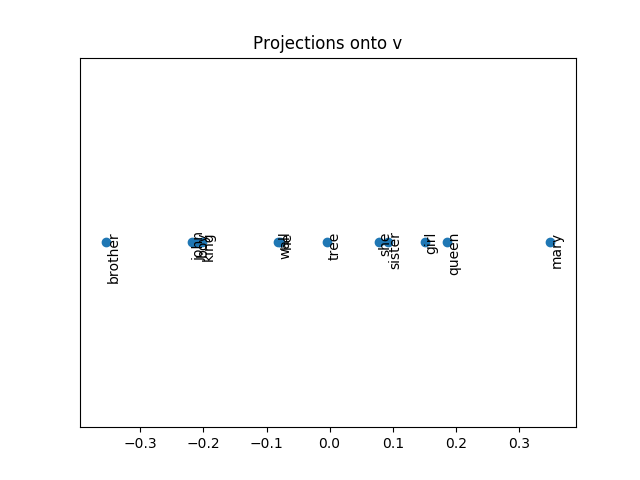
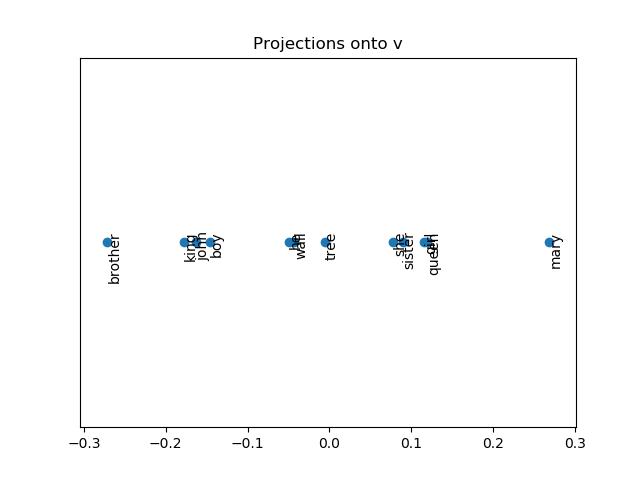
added to some answers

diff --git a/P5/code.py b/P5/code.py
@@ -29,10 +29,11 @@ def plot(title, X, Y, X_label, Y_label, filename, X_ticks = None):
 
 def plot_numberline(title, X, labels, filename): # I don't think this is what they want but I'm not sure what else to do :s
     plt.title(title)
-    plt.scatter(X, np.zeros_like(X))
-    plt.yticks([])
-    for i, label in enumerate(labels):
-        plt.annotate(label, (X[i], 0), rotation = 'vertical')
+    # plt.scatter(X, np.zeros_like(X))
+    # plt.yticks([])
+    # for i, label in enumerate(labels):
+    #     plt.annotate(label, (X[i], 0), rotation = 'vertical')
+    plt.scatter(labels, X)
     plt.savefig(filename + ".png", format = 'png')
     plt.close()
 
@@ -40,7 +41,7 @@ def plot_numberline(title, X, labels, filename): # I don't think this is what th
 def projection(A, B):
     dot_prod = np.dot(A, B)
     mag_a = np.linalg.norm(A)
-    return dot_prod/mag_a 
+    return dot_prod / mag_a 
 
 
 
@@ -75,29 +76,29 @@ U, singular_vals, VT = randomized_svd(normalized_matrix, n_components = 100, ran
 #         print(val)
 
 
-# 1D
-# embeddings = preprocessing.normalize(U, norm='l2')
-# embeddings_len = len(embeddings)
-# woman_idx = word_dictionary.index("woman")
-# man_idx = word_dictionary.index("man")
-# v = embeddings[woman_idx] - embeddings[man_idx]
-# d_i_words = ["boy", "girl", "brother", "sister", "king", "queen", "he", "she", "john", "mary", "wall", "tree"]
-# i_projections = []
-# for word in d_i_words:
-#     curr_idx = word_dictionary.index(word)
-#     curr_projection = projection(v, embeddings[curr_idx])
-#     i_projections.append(curr_projection)
-# plot_numberline("Projections onto v", i_projections, d_i_words, "1d_i")
-# #plot("Projections onto v", [x for x in range(len(d_i_words))], i_projections, "Word", "Projection", "1d_i", X_ticks = d_i_words)
+#1D
+embeddings = preprocessing.normalize(U, norm='l2')
+embeddings_len = len(embeddings)
+woman_idx = word_dictionary.index("woman")
+man_idx = word_dictionary.index("man")
+v = embeddings[woman_idx] - embeddings[man_idx]
+d_i_words = ["boy", "girl", "brother", "sister", "king", "queen", "he", "she", "john", "mary", "wall", "tree"]
+i_projections = []
+for word in d_i_words:
+    curr_idx = word_dictionary.index(word)
+    curr_projection = projection(v, embeddings[curr_idx])
+    i_projections.append(curr_projection)
+plot_numberline("Projections onto v", i_projections, d_i_words, "1d_i_1")
+#plot("Projections onto v", [x for x in range(len(d_i_words))], i_projections, "Word", "Projection", "1d_i", X_ticks = d_i_words)
 
-# d_ii_words = ["math", "matrix", "history", "nurse", "doctor", "pilot", "teacher", "engineer", "science", "arts", "literature", "bob", "alice"]
-# ii_projections = []
-# for word in d_ii_words:
-#     curr_idx = word_dictionary.index(word)
-#     curr_projection = projection(v, embeddings[curr_idx])
-#     ii_projections.append(curr_projection)
-# plot_numberline("Projections onto v", ii_projections, d_ii_words, "1d_ii")
-# #plot("Projections onto v",[x for x in range(len(d_ii_words))], ii_projections, "Word", "Projection", "1d_ii", X_ticks =  d_ii_words)
+d_ii_words = ["math", "matrix", "history", "nurse", "doctor", "pilot", "teacher", "engineer", "science", "arts", "literature", "bob", "alice"]
+ii_projections = []
+for word in d_ii_words:
+    curr_idx = word_dictionary.index(word)
+    curr_projection = projection(v, embeddings[curr_idx])
+    ii_projections.append(curr_projection)
+plot_numberline("Projections onto v", ii_projections, d_ii_words, "1d_ii_1")
+#plot("Projections onto v",[x for x in range(len(d_ii_words))], ii_projections, "Word", "Projection", "1d_ii", X_ticks =  d_ii_words)
 
 # 1E
 
@@ -110,39 +111,39 @@ U, singular_vals, VT = randomized_svd(normalized_matrix, n_components = 100, ran
 # print("Top 10 closest words to Stanford: ", top_10) # stanford, harvard, cornell, ucla, yale, princeton, penn, auburn, mit, berkeley...
 
 
-embeddings = preprocessing.normalize(U, norm='l2')
-embeddings_len = len(embeddings)
+# embeddings = preprocessing.normalize(U, norm='l2')
+# embeddings_len = len(embeddings)
 
-import time 
-with open("analogy_task.txt") as f:
-    analogies = f.readlines()
-num_correct_analogies = 0
-for analogy in analogies:
-    words = analogy.split()
-    hints = words[0:3]
-    indices = [word_dictionary.index(word) for word in words]
-    vec = embeddings[indices[1]] - embeddings[indices[0]] + embeddings[indices[2]]
-    target = vec / np.linalg.norm(vec)
-    best_word = None
-    best_similarity = -1
-    for i in range(embeddings_len):
-        if word_dictionary[i] in hints:
-            continue
-        similarity = np.dot(target, embeddings[i])
-        if similarity > best_similarity:
-            best_word = word_dictionary[i]
-            best_similarity = similarity
-    if best_word == words[3]:
-        num_correct_analogies += 1
-        with open('analogy_successes_1.txt', 'a') as analogy_file:
-            analogy_file.write(analogy + '\n')
-            analogy_file.write(best_word + '\n')
-    else:
-        with open('analogy_errors_1.txt', 'a') as analogy_file:
-            analogy_file.write(analogy + '\n')
-            analogy_file.write(best_word + '\n')
-accuracy = float(num_correct_analogies) / len(analogies)
-print("Analogy Accuracy: ", accuracy)
+# import time 
+# with open("analogy_task.txt") as f:
+#     analogies = f.readlines()
+# num_correct_analogies = 0
+# for analogy in analogies:
+#     words = analogy.split()
+#     hints = words[0:3]
+#     indices = [word_dictionary.index(word) for word in words]
+#     vec = embeddings[indices[1]] - embeddings[indices[0]] + embeddings[indices[2]]
+#     target = vec / np.linalg.norm(vec)
+#     best_word = None
+#     best_similarity = -1
+#     for i in range(embeddings_len):
+#         if word_dictionary[i] in hints:
+#             continue
+#         similarity = np.dot(target, embeddings[i])
+#         if similarity > best_similarity:
+#             best_word = word_dictionary[i]
+#             best_similarity = similarity
+#     if best_word == words[3]:
+#         num_correct_analogies += 1
+#         with open('analogy_successes_1.txt', 'a') as analogy_file:
+#             analogy_file.write(analogy + '\n')
+#             analogy_file.write(best_word + '\n')
+#     else:
+#         with open('analogy_errors_1.txt', 'a') as analogy_file:
+#             analogy_file.write(analogy + '\n')
+#             analogy_file.write(best_word + '\n')
+# accuracy = float(num_correct_analogies) / len(analogies)
+# print("Analogy Accuracy: ", accuracy)
 
 
 #question 2
